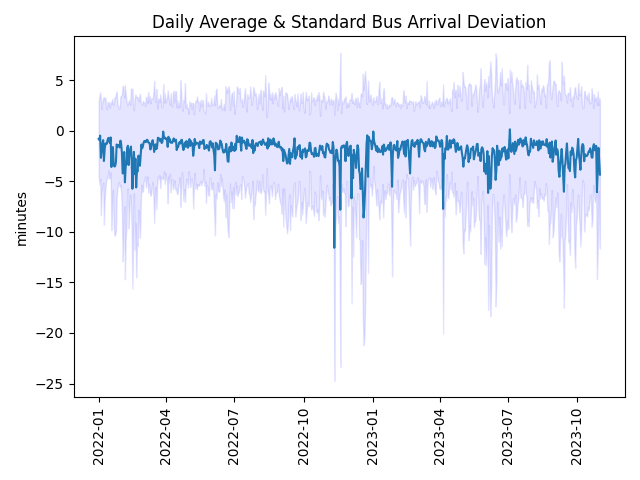
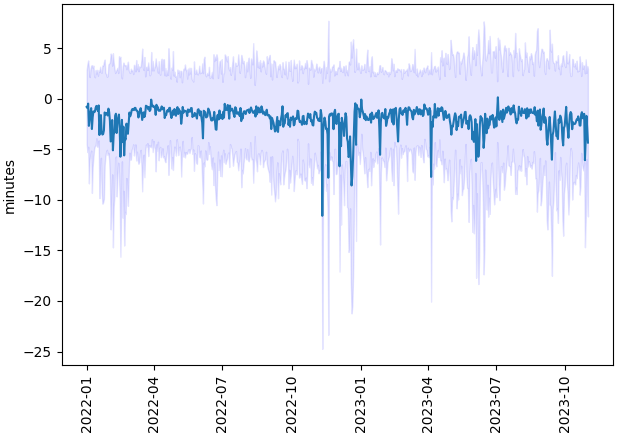
part1

Changed region(s): [[0.0, 0.0, 1.0, 0.9728], [0.5543, 0.5601, 0.5851, 0.6485], [0.0924, 0.0, 0.1232, 0.0295]]

diff --git a/source/visualizations.py b/source/visualizations.py
@@ -28,7 +28,7 @@ def plot_timeseries(df: pd.DataFrame):
         df_viz['mean'] + df_viz['std'],
         color='b', alpha=.1
     )
-    plt.title('Daily Average & Standard Bus Arrival Deviation')
+    plt.title('')
     plt.xticks(rotation=90)
     plt.ylabel('minutes')
     plt.tight_layout()
